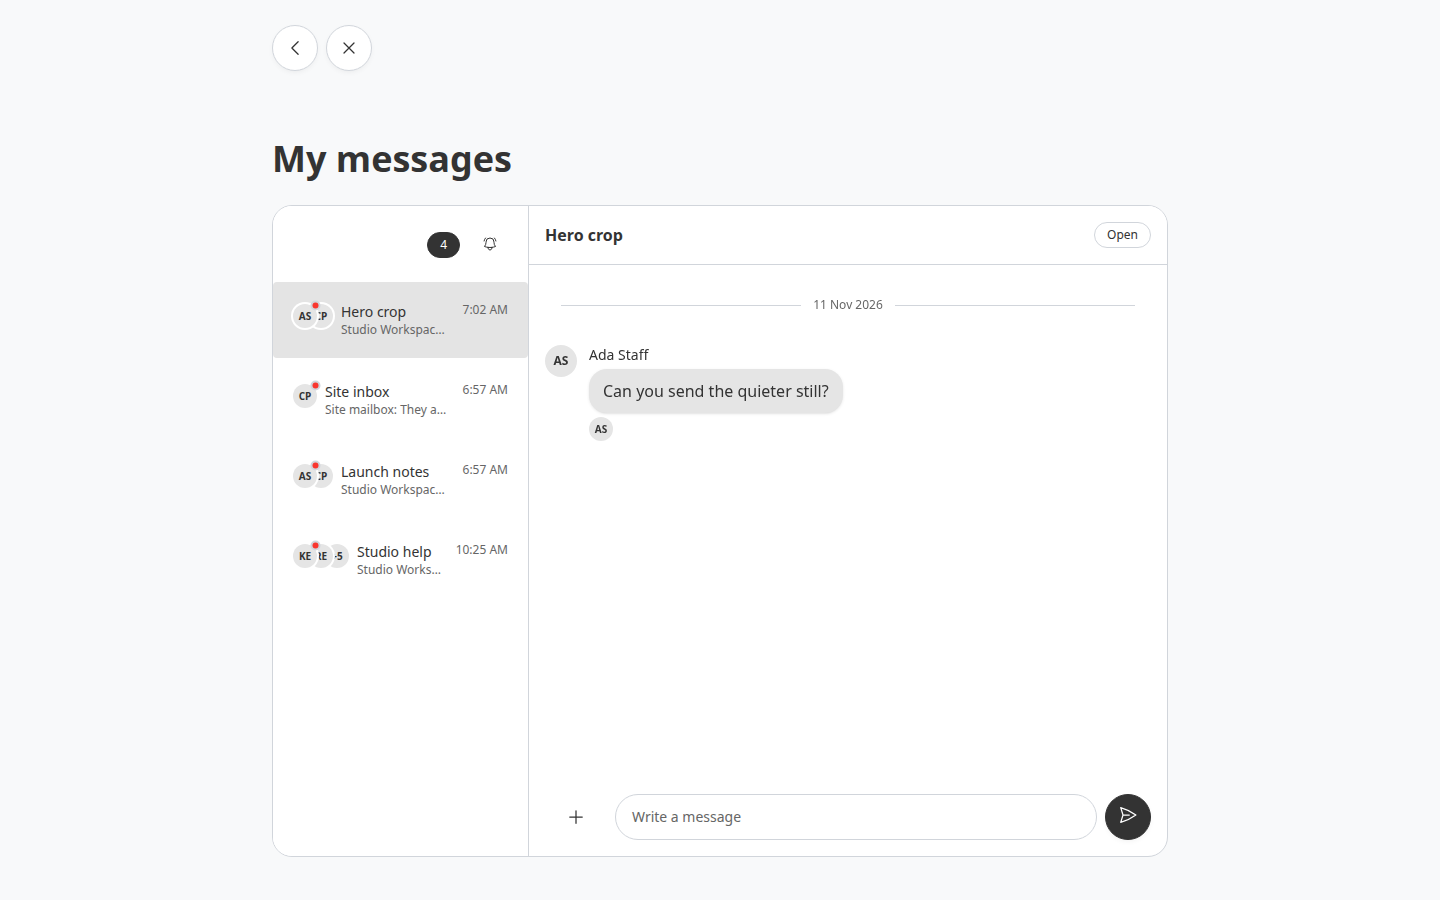
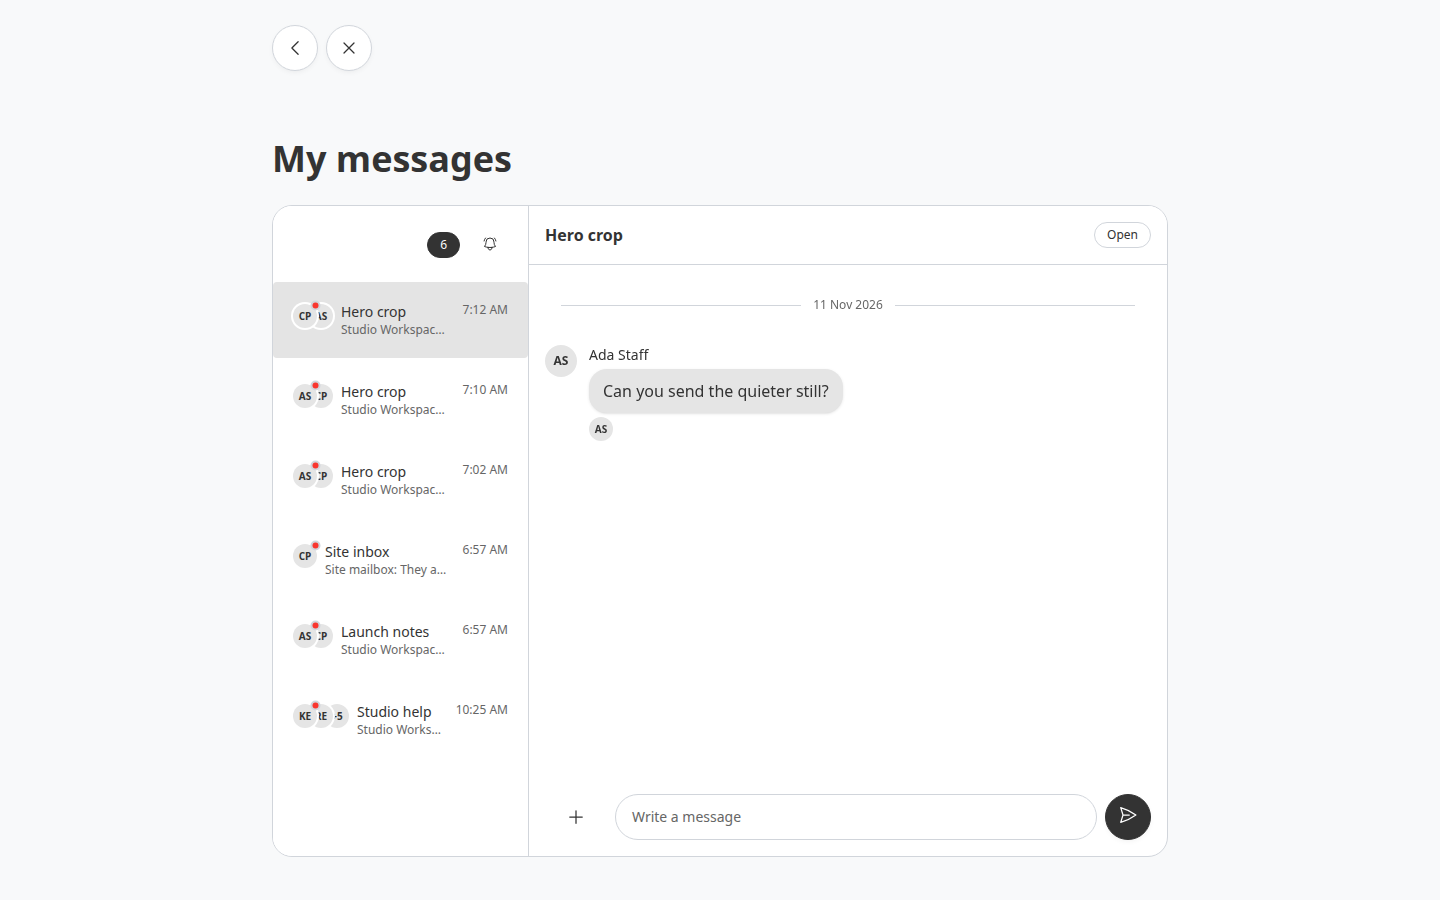
fix(messages): filter contact search and compact the picker
The picker sends q, dummy contacts match name or email, and results
are a compact avatar list with chips under the field.

diff --git a/app/javascript/recording_studio_messages/controllers/new_conversation_controller.js b/app/javascript/recording_studio_messages/controllers/new_conversation_controller.js
@@ -5,11 +5,14 @@ export default class extends Controller {
 
   connect() {
     this.onChipRemoved = this.onChipRemoved.bind(this)
+    this.hidePicked = this.hidePicked.bind(this)
     this.element.addEventListener("chip:removed", this.onChipRemoved)
+    this.element.addEventListener("turbo:frame-load", this.hidePicked)
   }
 
   disconnect() {
     this.element.removeEventListener("chip:removed", this.onChipRemoved)
+    this.element.removeEventListener("turbo:frame-load", this.hidePicked)
   }
 
   search() {
@@ -17,6 +20,22 @@ export default class extends Controller {
     this.searchTimer = window.setTimeout(() => {
       this.element.querySelector("form[data-turbo-frame]")?.requestSubmit()
     }, 200)
+  }
+
+  keydown(event) {
+    const options = this.visibleOptions()
+    if (!options.length) return
+
+    if (event.key === "ArrowDown") {
+      event.preventDefault()
+      this.moveActive(1, options)
+    } else if (event.key === "ArrowUp") {
+      event.preventDefault()
+      this.moveActive(-1, options)
+    } else if (event.key === "Enter" && this.activeOption(options)) {
+      event.preventDefault()
+      this.activeOption(options).click()
+    }
   }
 
   add(event) {
@@ -35,6 +54,7 @@ export default class extends Controller {
     wrap.append(this.hiddenInput("id", id))
     wrap.append(this.chipFor(name))
     this.recipientsTarget.append(wrap)
+    this.hidePicked()
   }
 
   chipFor(name) {
@@ -48,6 +68,34 @@ export default class extends Controller {
 
   onChipRemoved(event) {
     event.target.closest("[data-pending-recipient]")?.remove()
+    this.hidePicked()
+  }
+
+  hidePicked() {
+    const keys = this.existingKeys()
+    this.element.querySelectorAll("[data-contact-key]").forEach((node) => {
+      node.classList.toggle("hidden", keys.includes(node.dataset.contactKey))
+    })
+    const list = this.element.querySelector("[data-contact-key]")?.closest("ul, ol")
+    if (list) list.classList.toggle("hidden", this.visibleOptions().length === 0)
+  }
+
+  visibleOptions() {
+    return Array.from(this.element.querySelectorAll("[data-contact-key]")).filter(
+      (node) => !node.classList.contains("hidden")
+    )
+  }
+
+  activeOption(options) {
+    return options.find((node) => node.getAttribute("aria-selected") === "true") || null
+  }
+
+  moveActive(step, options) {
+    const current = options.findIndex((node) => node.getAttribute("aria-selected") === "true")
+    const next = current < 0 ? 0 : (current + step + options.length) % options.length
+    options.forEach((node, index) => {
+      node.setAttribute("aria-selected", index === next ? "true" : "false")
+    })
   }
 
   existingKeys() {

diff --git a/test/dummy/test/integration/new_conversation_test.rb b/test/dummy/test/integration/new_conversation_test.rb
@@ -38,15 +38,17 @@ class NewConversationTest < ActionDispatch::IntegrationTest
 
     assert_response :success
     assert_includes response.body, RecordingStudioMessages::Copy.t("inbox.new")
+    assert_includes response.body, RecordingStudioMessages::Copy.t("inbox.send")
     assert_includes response.body, "messages-new-conversation-#{@members_mount.id}"
     assert_includes response.body, "recording-studio-messages--new-conversation"
     assert_includes response.body, recording_studio_messages.contacts_message_groups_path(
       mount_id: @members_mount.id
     )
     assert_select "[data-modal-id=?]", "messages-new-conversation-#{@members_mount.id}"
+    assert_select "button[aria-label=?]", RecordingStudioMessages::Copy.t("inbox.new")
   end
 
-  test "contact search is scoped to the resolver and omits the current actor" do
+  test "contact search returns only resolver matches for the query" do
     sign_in @staff
     get recording_studio_messages.contacts_message_groups_path(
       mount_id: @members_mount.id,
@@ -57,6 +59,31 @@ class NewConversationTest < ActionDispatch::IntegrationTest
     assert_includes response.body, "Casey Patron"
     refute_includes response.body, "Ada Staff"
     refute_includes response.body, @staff.email
+    refute_includes response.body, "Jules Early"
+    refute_includes response.body, "Kit Extra"
+    refute_includes response.body, "Riley One"
+    refute_includes response.body, "Sam Overflow"
+  end
+
+  test "contact search matches name or email without caring about case" do
+    sign_in @staff
+    get recording_studio_messages.contacts_message_groups_path(
+      mount_id: @members_mount.id,
+      q: "casey@example"
+    )
+
+    assert_response :success
+    assert_includes response.body, "Casey Patron"
+    refute_includes response.body, "Jules Early"
+  end
+
+  test "contact search stays empty until there is a query" do
+    sign_in @staff
+    get recording_studio_messages.contacts_message_groups_path(mount_id: @members_mount.id)
+
+    assert_response :success
+    refute_includes response.body, "Casey Patron"
+    refute_includes response.body, "Jules Early"
   end
 
   test "creating a conversation lands on it and the recipient sees it in my messages" do

diff --git a/test/dummy/test/models/start_conversation_test.rb b/test/dummy/test/models/start_conversation_test.rb
@@ -84,6 +84,21 @@ class StartConversationTest < ActiveSupport::TestCase
     refute_includes listed_titles(actor: @viewer), "Quiet ask"
   end
 
+  test "dummy contacts resolver filters by name or email without caring about case" do
+    matches = DummyCatalog.contacts_for(actor: @owner, mount: @members_mount, query: "editor")
+
+    assert_includes matches.map(&:id), @editor.id
+    refute_includes matches.map(&:id), @owner.id
+    refute_includes matches.map(&:id), @viewer.id
+
+    by_email = DummyCatalog.contacts_for(
+      actor: @owner,
+      mount: @members_mount,
+      query: @editor.email.split("@").first.upcase
+    )
+    assert_includes by_email.map(&:id), @editor.id
+  end
+
   test "create_group with recipients rejects a person outside the resolver" do
     error = assert_raises(RecordingStudioMessages::Error) do
       RecordingStudioMessages.create_group(

diff --git a/app/helpers/recording_studio_messages/inbox_helper.rb b/app/helpers/recording_studio_messages/inbox_helper.rb
@@ -93,12 +93,17 @@ module RecordingStudioMessages
     end
 
     def messages_new_conversation_button(mount)
+      label = Copy.t("inbox.new")
       {
-        text: Copy.t("inbox.new"),
+        text: label,
         icon: "plus",
-        style: :secondary,
+        icon_only: true,
+        round: true,
+        style: :ghost,
         size: :sm,
         type: :button,
+        title: label,
+        aria: { label: label },
         data: { modal_id: messages_new_conversation_modal_id(mount) }
       }
     end

diff --git a/lib/recording_studio_messages/contacts.rb b/lib/recording_studio_messages/contacts.rb
@@ -24,7 +24,10 @@ module RecordingStudioMessages
     end
 
     def search(mount:, actor:, query: "")
-      call(mount: mount, actor: actor, query: query).first(SEARCH_LIMIT)
+      text = query.to_s.strip
+      return [] if text.blank?
+
+      call(mount: mount, actor: actor, query: text).first(SEARCH_LIMIT)
     end
 
     def allowlist(mount:, actor:)

diff --git a/docs/how-it-works.md b/docs/how-it-works.md
@@ -73,7 +73,7 @@ Do not insert `Recording` rows by hand. Do not invent a second access list.
 
 ## Screens
 
-A mount opens as Flatpack `Chat::Layout` `:split` (`GET /recording_studio_messages/message_groups`, optional `mount_id`). A named mount must pass Accessible `:view` on its parent recording or the action 404s, so the title cannot leak the parent name. `viewable_group_recordings` asks Accessible `recordings_for` for kept `MessageGroup` children of that mount that the current actor can view (`minimum_role: :view`). Ruby sorts those recordings by the latest message time, then by title. `params[:unread]` filters that list the same way `/my_messages` does. The list header is a `Chat::Header` with a blank title, a New message button when `contacts:` is set and the actor has `:edit` on the mount, the round unread toggle, then optional host markup from `messages_list_toolbar(mount:, actor:)`. New message opens a Flatpack modal. Search hits `GET /message_groups/contacts`. Create posts to `POST /message_groups` and lands on the new conversation. Hosts can restore a name with `messages_list_header_title(mount:, actor:)`. Both hooks default to nil. They grant no access. `/my_messages` calls it with `mount:` nil and still shows the unread badge before the toggle. A blank actor or a blank mount returns an empty list, so the index stays empty until the request names a mount. The check is Accessible on `MessageGroup`. Conversation `#show` still redirects when the actor cannot view that group. The sidebar is `Chat::InboxRow` only. The panel slot is the existing `Chat::Panel` inside a `messages-desk-panel` turbo frame. Clicking a row uses the kit path: InboxRow `turbo_frame` replaces that frame, and Layout Stimulus `openPanel` / `showPanel` hides the sidebar under the split breakpoint (`sm` by default). It does not Turbo-visit show and remount the desk. The engine controller sets `recording_studio_layout { RecordingStudioMessages.configuration.layout }`. `layout` defaults to `nil`, which falls through to `RecordingStudio.configuration.layout` and then `recording_studio/default_layout`. A string names a layout. `false` renders none. A callable must be keyword-only (`controller:`) and return a String, `nil`, or `false`. Views set `content_for :title` so the layout draws one page heading. Back and close use `flat_pack_page_nav`. Chat::Header has no `back_href`. Layout's stacked Back to conversations stays visible so a stacked window can return to the list. Do not fork Chat::Layout split CSS. The desk wrapper is `w-full min-w-0 h-[calc(100dvh-15.5rem)]`. Faces in the header come from Accessible unless the mount key is `membership_locked`. Actors with Accessible `:edit` get Flatpack `InlineEdit` on that header name. Everyone else still sees the plain title. Hosts must pin `flat_pack/copy` so that controller can load. A save hits `PATCH .../message_groups/:id/rename` and Turbo-updates `messages-inbox-title-<id>` on the matching list row. It does not replace the list. The v0.17 right-header hooks and their `p-4` wrap stay as they are. Composer files go through Attachable. Registered composer actions share that + menu. Their Stimulus insert event is `messages:composer-insert`.
+A mount opens as Flatpack `Chat::Layout` `:split` (`GET /recording_studio_messages/message_groups`, optional `mount_id`). A named mount must pass Accessible `:view` on its parent recording or the action 404s, so the title cannot leak the parent name. `viewable_group_recordings` asks Accessible `recordings_for` for kept `MessageGroup` children of that mount that the current actor can view (`minimum_role: :view`). Ruby sorts those recordings by the latest message time, then by title. `params[:unread]` filters that list the same way `/my_messages` does. The list header is a `Chat::Header` with a blank title, a round icon New message control when `contacts:` is set and the actor has `:edit` on the mount, the round unread toggle, then optional host markup from `messages_list_toolbar(mount:, actor:)`. New message opens a Flatpack modal. Search hits `GET /message_groups/contacts?q=` and only renders matches. Chips sit under the search field. Create posts to `POST /message_groups` and lands on the new conversation. Hosts can restore a name with `messages_list_header_title(mount:, actor:)`. Both hooks default to nil. They grant no access. `/my_messages` calls it with `mount:` nil and still shows the unread badge before the toggle. A blank actor or a blank mount returns an empty list, so the index stays empty until the request names a mount. The check is Accessible on `MessageGroup`. Conversation `#show` still redirects when the actor cannot view that group. The sidebar is `Chat::InboxRow` only. The panel slot is the existing `Chat::Panel` inside a `messages-desk-panel` turbo frame. Clicking a row uses the kit path: InboxRow `turbo_frame` replaces that frame, and Layout Stimulus `openPanel` / `showPanel` hides the sidebar under the split breakpoint (`sm` by default). It does not Turbo-visit show and remount the desk. The engine controller sets `recording_studio_layout { RecordingStudioMessages.configuration.layout }`. `layout` defaults to `nil`, which falls through to `RecordingStudio.configuration.layout` and then `recording_studio/default_layout`. A string names a layout. `false` renders none. A callable must be keyword-only (`controller:`) and return a String, `nil`, or `false`. Views set `content_for :title` so the layout draws one page heading. Back and close use `flat_pack_page_nav`. Chat::Header has no `back_href`. Layout's stacked Back to conversations stays visible so a stacked window can return to the list. Do not fork Chat::Layout split CSS. The desk wrapper is `w-full min-w-0 h-[calc(100dvh-15.5rem)]`. Faces in the header come from Accessible unless the mount key is `membership_locked`. Actors with Accessible `:edit` get Flatpack `InlineEdit` on that header name. Everyone else still sees the plain title. Hosts must pin `flat_pack/copy` so that controller can load. A save hits `PATCH .../message_groups/:id/rename` and Turbo-updates `messages-inbox-title-<id>` on the matching list row. It does not replace the list. The v0.17 right-header hooks and their `p-4` wrap stay as they are. Composer files go through Attachable. Registered composer actions share that + menu. Their Stimulus insert event is `messages:composer-insert`.
 
 Hosts can replace `messages_panel_right_header(group_recording, actor:, mount:)`, `messages_panel_right_header_mobile(group_recording, actor:, mount:)`, and `messages_panel_after(group_recording, actor:, mount:)`. The same override style as `messages_inbox_href`: a host helper with that name wins. Each receives the open conversation, the current actor, and the parent `MessageMount` recording. Defaults return `nil`. The panel passes the first two through to Flatpack `Chat::Panel` `right_header` and `right_header_mobile` only when the return is present, and renders the third once after the panel inside the desk turbo frame. Blank returns leave the panel markup unchanged. Each filled right-header slot wraps host markup in `p-4` plus `gap-2`, because Flatpack 0.1.346's right parts have no padding. The same partial is used on the mount desk, `/my_messages`, and the `/my_messages/:id` Turbo stream panel replace. On Flatpack 0.1.346, `right_header` is `hidden sm:flex` only when `right_header_mobile` is also set. A lone `right_header` is `flex` at every width. When both are present, both stay in the DOM, so their ids, Stimulus targets, and `aria-controls` targets must differ. The after hook sits in the `h-full` turbo frame, inside Chat::Layout's `overflow-hidden` panel column. In-flow markup is clipped. A Flatpack modal is `fixed` (`inset-0` on the backdrop), so it is not clipped. The hooks grant no access. Messages does not know about tickets. The host must check Accessible.
 

diff --git a/CHANGELOG.md b/CHANGELOG.md
@@ -15,7 +15,7 @@ Hosts can let people start a conversation from a Messages mount and pick who it 
 
 - Optional `contacts:` callable on `RecordingStudio::Capabilities::Messages.to`. Messages calls it as `contacts.call(actor:, mount:, query:)`. A blank query is the allowlist. The New message button renders only when that callable is present and the actor has Accessible `:edit` on the mount.
 - `create_group(..., recipients:, body:)`. Recipients are re-checked against the resolver. Each recipient gets a direct `:edit` grant. On `:members` the creator is still admin. On `:inherited` the creator gets a direct `:edit` grant only. The first message, grants, and tags commit together. Title is optional when recipients are present. Body is required.
-- Gem routes to search contacts and create the conversation. The list header opens a Flatpack modal with a live search, removable chips, optional title, and the first message.
+- Gem routes to search contacts and create the conversation. The list header uses an icon New message control. The modal searches people in a compact list, keeps chips under the field, and submits with Send.
 
 ### Upgrade notes
 
